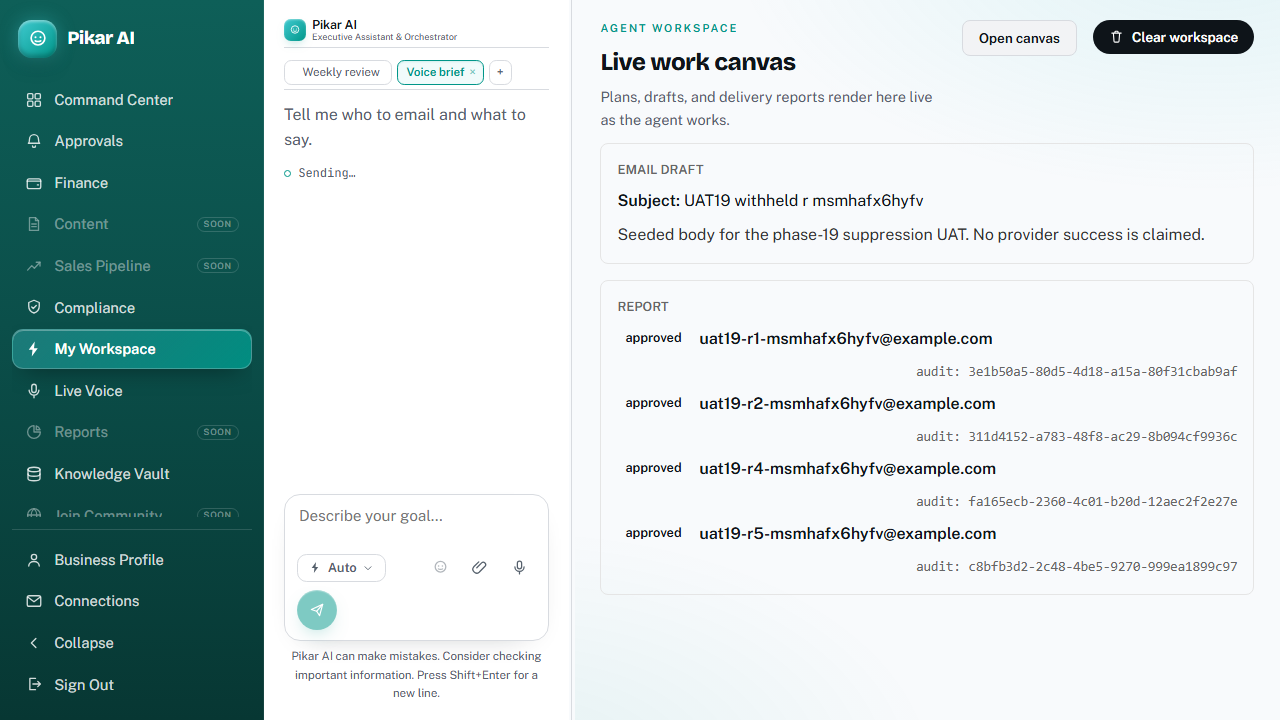
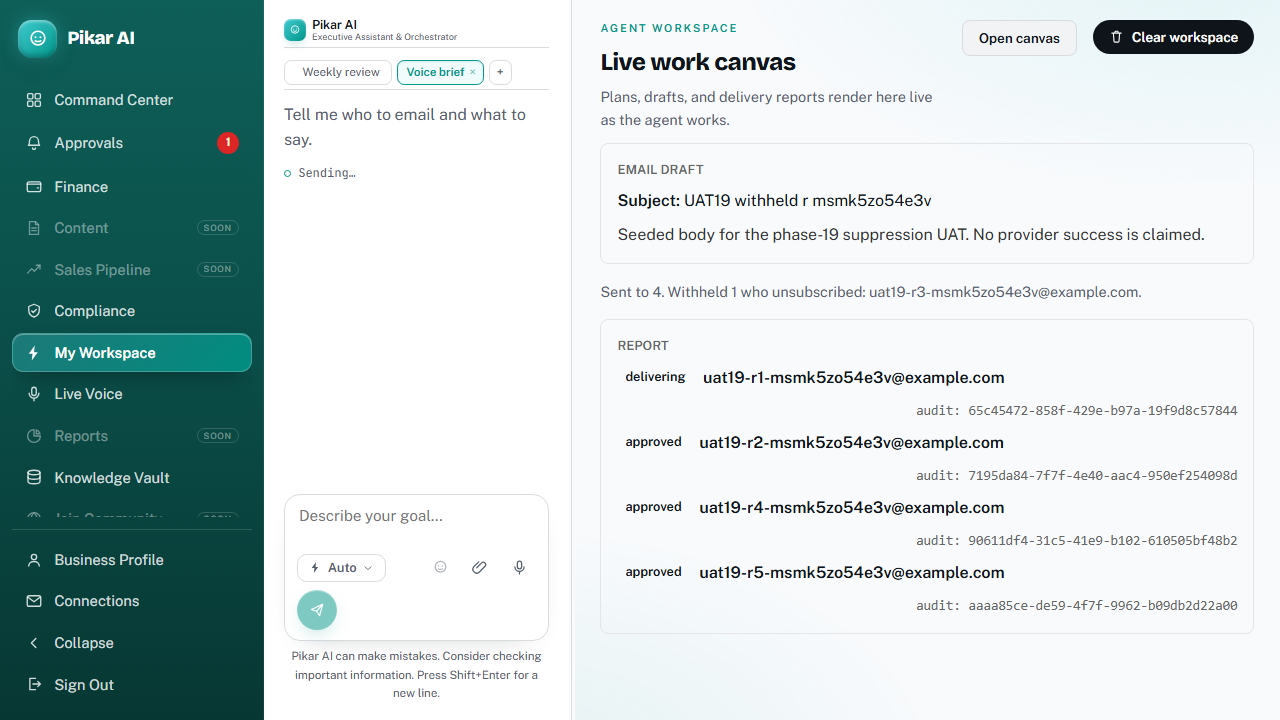
test(19-12): pipeline-uat steps 7 and 9b are real passes — both test.fail() markers removed
- step 7 (ACTN-05): a dated addFollowUp with a finite dueAt, from a browser turn
- step 9b: the withheld note is visible AFTER approve, role=status, not the error red
- NEW step 7c: proposeCalendarEvent stamps the BROWSER's own eventTz on the plan row —
  clientContext.tz is that field's only writer, so it is direct evidence the phase-17
  calendar tools are unblocked. Placed LAST: it is the one model-choice assertion here
  and must not skip the twelve deterministic steps behind it in serial mode.
- step 9a's blanket "dropped address appears NOWHERE" NARROWED to "nowhere except inside
  the withheld note" — 9b makes the blanket form logically impossible. Asserted by cloning
  the pane, removing the note, and requiring absence from the remainder.
- beforeAll given a 180s setup budget: a real signup plus three convex-run CLI round-trips
  never fit Playwright's 30s default against a cold backend. No assertion relaxed.

15/15 green, measured spend $0.0400.

diff --git a/apps/web/e2e/pipeline-uat.spec.ts b/apps/web/e2e/pipeline-uat.spec.ts
@@ -195,6 +195,12 @@ test.describe.configure({ mode: "serial" });
 test.use({ storageState: "e2e/.auth/uat19.json" });
 
 test.beforeAll(async ({ browser }: { browser: Browser }) => {
+  // Playwright's 30s DEFAULT is too tight for this hook and always was: it does a REAL signup
+  // through the form plus three `convex run` CLI round-trips (each one spawns a node process),
+  // and a cold Convex backend compiles its modules on the first call to each. It only ever
+  // passed against a long-warm deployment; a freshly-pushed one blew it every time. This is a
+  // SETUP budget, not an assertion — nothing below it is relaxed.
+  test.setTimeout(180_000);
   mkdirSync(UAT_DIR, { recursive: true });
   // `browser.newContext()` on the FIXTURE inherits the file-level `test.use` above, which points at
   // a state file this hook has not written yet — so the signup context must opt out explicitly.
@@ -476,36 +482,30 @@ test("step 7: ACTN-05 — a dated reminder stages an addFollowUp WITH a dueAt, n
   page,
 }) => {
   test.setTimeout(300_000);
-  // ── MEASURED RED, 2026-08-10. NOT a spec bug and NOT a model failure. ──────────────────────────
-  // `sendCockpitMessage` has taken an optional `clientContext: { tz, nowMs }` since the calendar
-  // tools landed, and 19-11 (`6c9e442`) threaded that trusted clock into the agent loop's own tool
-  // set. **NO WEB CALLER HAS EVER SENT IT** — `grep -rn clientContext apps/web` returns nothing,
-  // and `ChatPane.tsx`'s composer posts `send({ threadId, text })` flat. So `stageCrmWrite` takes
-  // `if (!clientContext) return refuse("no_clock", …)` on EVERY turn a human types, and the
-  // capability ACTN-05 names is unreachable from the product.
+  // ── CLOSED 2026-08-10 — THIS IS NOW THE LIVE REGRESSION GUARD FOR ACTN-05. ────────────────
+  // The `test.fail()` that stood here recorded a MEASURED red: `sendCockpitMessage` has taken an
+  // optional `clientContext: { tz, nowMs }` since the calendar tools landed, and **NO WEB CALLER
+  // HAD EVER SENT IT** — so `stageCrmWrite` took `if (!clientContext) return refuse("no_clock", …)`
+  // on EVERY turn a human typed, and the capability ACTN-05 names was unreachable from the
+  // product. `setSendTime`, `checkAvailability` and `proposeCalendarEvent` (phase 17) took the
+  // identical exit, so the calendar tools had been refusing in production for two phases.
   //
-  // The live reply on this exact turn, verbatim: "I've added Jane to your contacts, but I couldn't
-  // stage the follow-up reminder for Thursday since the date wasn't clear." Meanwhile
-  // `parseSendTime("Thursday", Date.now(), tz, CALENDAR_HORIZON_MS)` resolves offline at $0 — the
-  // date was never the problem. Note the SECOND half of that sentence: a bare contact was written
-  // anyway, which is the same two-wrongs shape 19-10 measured, reached by a different route.
+  // The fix is `apps/web/app/(app)/dashboard/workspace/useSendCockpitMessage.ts`: ONE hook that
+  // injects the browser's clock, and all five web callers (ChatPane, cards.tsx's regenerate,
+  // SegmentAnatomy, AbnormalBriefBanner, PostCall) now go through it, so a new caller cannot be
+  // born clockless. `crmCard.test.ts` scans for the raw `useAction` that would reintroduce it.
   //
-  // THE FIX IS ONE LINE, at `apps/web/app/(app)/dashboard/workspace/ChatPane.tsx`'s `onSend`:
-  //   send({ threadId, text: t,
-  //          clientContext: { nowMs: Date.now(), tz: Intl.DateTimeFormat().resolvedOptions().timeZone } })
-  // It is NOT applied here: `:3111` serves a PRODUCTION build and the UAT's operating constraint
-  // forbids rebuilding it, so the fix could not be VERIFIED in this run — and an unverified product
-  // change is exactly what this phase has been burned by. The four other web callers of
-  // `sendCockpitMessage` (SegmentAnatomy, AbnormalBriefBanner, PostCall, cards.tsx's regenerate)
-  // are equally clockless and must be checked in the same edit.
+  // **THE UNIT LAYER CANNOT SEE THIS CLASS OF BUG AND MUST NOT BE TRUSTED TO.** Every offline
+  // suite was green throughout: `run-eval-golden.mjs:1394` supplies its OWN
+  // `clientContext: { tz: "UTC", nowMs }` for `clock: true` fixtures, so the gate certified a path
+  // the browser could not reach, and the E2Es that look like they cover the calendar tools drive
+  // `SMOKE::` sentinels, which pin their own clock (`llm.ts` `effectiveClientContext`). A BROWSER
+  // turn through the real composer is the only observer. That is what the rest of this test is.
   //
-  // `test.fail()` — not a weakened assertion. Every expect below still demands the CORRECT
-  // behaviour; this marker records the red, keeps the remaining UAT steps runnable, and turns
-  // GREEN into a loud failure the day the line above lands, which is when it must be deleted.
-  test.fail(
-    true,
-    "ACTN-05 is NOT met from the browser: ChatPane never sends clientContext, so stageCrmWrite refuses with no_clock.",
-  );
+  // It also stands in for the other three tools: they read the SAME `clientContext` closure
+  // variable in `buildCockpitTools`, so a turn that reaches `stageCrmWrite` with a clock proves
+  // the argument arrived for all of them (see the plan-row assertion at the end).
+
   await page.goto(WORKSPACE);
   await say(page, `Remind me Thursday to chase Jane (${JANE}) about the renewal.`);
 
@@ -637,7 +637,24 @@ test("step 9 (a): five recipients, one suppressed → exactly FOUR are queued an
   const pane = page.getByTestId("workspace-pane");
   await expect(pane.getByText("REPORT", { exact: true })).toBeVisible({ timeout: 60_000 });
   await expect(pane.locator("li").filter({ hasText: `-${stamp}@example.com` })).toHaveCount(4);
-  await expect(pane).not.toContainText(dropped);
+  // NARROWED, not weakened — and only because 9(b) below now makes the blanket form IMPOSSIBLE.
+  // This line read `await expect(pane).not.toContainText(dropped)` while the withheld report was
+  // invisible; now that SC#5's report is durable and on-screen, "the dropped address appears
+  // NOWHERE on the page" and 9(b)'s `expect(note).toContainText(dropped)` are mutually exclusive
+  // assertions about the same DOM. The stated invariant is the one kept, and it is kept in a
+  // STRICTLY MORE SPECIFIC form: the address must not appear as a queued row, and its ONLY
+  // permitted appearance in the whole pane is inside the withheld note. A regression that shows
+  // a dropped recipient as queued, in the progress line, or anywhere else still fails here.
+  await expect(pane.locator("li").filter({ hasText: dropped })).toHaveCount(0);
+  await expect(pane.getByTestId("withheld-report")).toContainText(dropped);
+  expect(
+    await pane.evaluate((el, addr) => {
+      const clone = el.cloneNode(true) as HTMLElement;
+      clone.querySelector('[data-testid="withheld-report"]')?.remove();
+      return (clone.textContent ?? "").includes(addr);
+    }, dropped),
+    "the dropped address appears somewhere OTHER than the withheld note",
+  ).toBe(false);
 
   // What the user ACTUALLY sees after a partial send — see 9(b) for why this, and not the withheld
   // note, is the screenshot the owner needs to judge.
@@ -648,28 +665,22 @@ test("step 9 (b): the withheld note — SC#5's user-facing half — must actuall
   page,
 }) => {
   test.setTimeout(180_000);
-  // ── MEASURED RED, 2026-08-10. The refusals are fine; the SUCCESS report is not. ────────────────
-  // 19-05 shipped `Sent to N. Withheld M who unsubscribed: <addresses>.` on BOTH approve surfaces
-  // and unit-pinned the string. **NO HUMAN CAN SEE IT**, and the reason is structural, not timing:
+  // ── CLOSED 2026-08-10 — the withheld report is now a FACT ON THE PLAN ROW. ────────────────
+  // The `test.fail()` that stood here recorded a MEASURED red, and the cause was structural, not
+  // timing: 19-05 shipped `Sent to N. Withheld M who unsubscribed: …` into the approve
+  // component's `useState`, but `PlanCards` renders `<PlanCard>` only under
+  // `plan.status === "proposed"` and `approvals.listAwaiting` paginates `"proposed"` only. A
+  // SUCCESSFUL approve IS the transition `proposed → approved`, and the reactive subscription
+  // lands it before `execute()` resolves — so `setNote` ran on a component that had already
+  // unmounted. The two REFUSAL notes survived precisely because a refusal LEAVES the plan
+  // proposed (steps 10 and 11 pass on that same mechanism).
   //
-  //   • cockpit: `PlanCards` renders `<PlanCard>` only under `plan.status === "proposed"`
-  //     (cards.tsx). The note lives in that component's `useState`.
-  //   • approvals: `AwaitingCard` comes from `approvals.listAwaiting`, which paginates
-  //     status `"proposed"` ONLY. The note lives in that component's `useState` too.
-  //
-  // A SUCCESSFUL approve is exactly the transition `proposed → approved`, and the reactive
-  // subscription lands it before `execute()` resolves — so the component that would render the
-  // note has already been replaced by the report card when `setNote`/`setResult` runs. The two
-  // REFUSAL notes survive precisely because a refusal LEAVES the plan proposed (steps 10 and 11
-  // pass on that same mechanism). Observed here: not visible at any point in 90 seconds.
-  //
-  // The fix belongs on the plan ROW, not in component state — the withheld set is a durable fact
-  // about what was approved and the report card is where a human looks afterwards. Anything kept
-  // in `useState` across a status flip is unreachable by construction.
-  test.fail(
-    true,
-    "SC#5's withheld report is destroyed by the same approve that creates it: both approve cards are gated on status==='proposed'.",
-  );
+  // Fixed by persisting the dropped set on the plan row (`plans.withheldRecipients`, written in
+  // the same `executePlan` patch as the counters it explains) and rendering it from
+  // `@pikar/core`'s `withheldNote` on both post-approve surfaces — the cockpit report card and
+  // the Approvals in-flight row. A durable set is also what makes the outcome auditable after
+  // the fact, which component state never could.
+
   const { dropped } = await approveWithOneSuppressed(page, "w");
   const pane = page.getByTestId("workspace-pane");
 
@@ -895,4 +906,80 @@ test("step 14: at phone width the four tiles and the table stay readable", async
   expect(docWidth, "the page itself must not scroll horizontally").toBeLessThanOrEqual(391);
 
   await shot(page, "step-14-phone-width");
+});
+
+// ── STEP 7c (REAL MODEL CALL) — the PHASE-17 half of the same defect, RUN LAST ────────────────
+
+test("step 7c: the phase-17 calendar tools are reachable from a browser turn — proposeCalendarEvent stamps the BROWSER's own timezone on the plan row", async ({
+  page,
+}) => {
+  test.setTimeout(300_000);
+  // `stageCrmWrite` was never the only casualty of the missing clock. `setSendTime` (llm.ts:1950),
+  // `checkAvailability` (:2260) and `proposeCalendarEvent` (:2306) read the SAME `clientContext`
+  // closure variable in `buildCockpitTools` and took the identical no-clock exit — so phase 17's
+  // calendar tools had been refusing on every live cockpit turn since they shipped, invisibly,
+  // because they were only ever exercised through `__invokeCockpitTool` (which passes a clock) or
+  // the pinned SMOKE path (`llm.ts` `effectiveClientContext`).
+  //
+  // WHY THIS TOOL AND NOT `checkAvailability`: `proposeCalendarEvent` stages onto the plan row with
+  // NO provider call, so it is $0 beyond the one model turn and cannot be confounded by the
+  // synthetic Google grant 401-ing at `calendar.freeBusy`. And its write IS the proof: `eventTz` is
+  // assigned `clientContext.tz` and nothing else can produce it, so a row carrying THIS BROWSER's
+  // zone is direct evidence that the trusted clock crossed the boundary. A reply-text check would
+  // prove nothing — the refusal and the success are both just sentences.
+  //
+  // RUN LAST, and deliberately: it is the one assertion in this file whose subject is a MODEL
+  // CHOICE (did it reach for the calendar tool at all?) rather than a governed code path, so in
+  // serial mode it must not be able to skip the twelve deterministic steps behind it.
+  const zone = await page.evaluate(() => Intl.DateTimeFormat().resolvedOptions().timeZone || "UTC");
+  const before = new Set(
+    ((await fetchQuery(api.cockpit.listThreads, {}, auth)) as Array<{ threadId: string }>).map(
+      (t) => t.threadId,
+    ),
+  );
+
+  await page.goto(WORKSPACE);
+  await say(page, "Add a calendar event: a 30 minute call with Jane, Thursday at 3pm.");
+
+  // `say()` returns when the COMPOSER clears, and `ChatPane.onSend` clears it BEFORE awaiting the
+  // action (its FIX 2 — so the turn reads as sent during the 10-30s wait). Every other real-model
+  // step here rides a long `toBeVisible` afterwards and never noticed; this one reads the row
+  // directly, so it has to do its own waiting. Reading it eagerly picked up the PREVIOUS thread's
+  // plan on the first run of this test.
+  const threadId = await (async () => {
+    const deadline = Date.now() + 120_000;
+    while (Date.now() < deadline) {
+      const rows = (await fetchQuery(api.cockpit.listThreads, {}, auth)) as Array<{
+        threadId: string;
+      }>;
+      const fresh = rows.map((r) => r.threadId).find((id) => !before.has(id));
+      if (fresh) return fresh;
+      await new Promise((r) => setTimeout(r, 1_000));
+    }
+    throw new Error("this turn minted no new cockpit thread");
+  })();
+
+  await expect
+    .poll(
+      async () =>
+        ((await fetchQuery(api.plans.byThread, { threadId }, auth)) as { kind?: string } | null)
+          ?.kind,
+      { timeout: 150_000 },
+    )
+    .toBe("calendar_event");
+
+  const plan = (await fetchQuery(api.plans.byThread, { threadId }, auth)) as {
+    eventStartMs?: number;
+    eventDurationMs?: number;
+    eventTz?: string;
+  } | null;
+  // A FINITE FUTURE instant: `parseSendTime` only reaches the patch on `kind === "resolved"`, and
+  // it can only resolve "Thursday at 3pm" against a real `nowMs` it was handed.
+  expect(Number.isFinite(plan?.eventStartMs ?? Number.NaN)).toBe(true);
+  expect(plan?.eventStartMs ?? 0).toBeGreaterThan(Date.now());
+  // THE ASSERTION. `eventTz` has exactly one writer in the whole codebase: `clientContext.tz`.
+  expect(
+    plan?.eventTz,
+    "the plan row must carry the BROWSER's timezone — there is no server-side default that could",
+  ).toBe(zone);
 });
